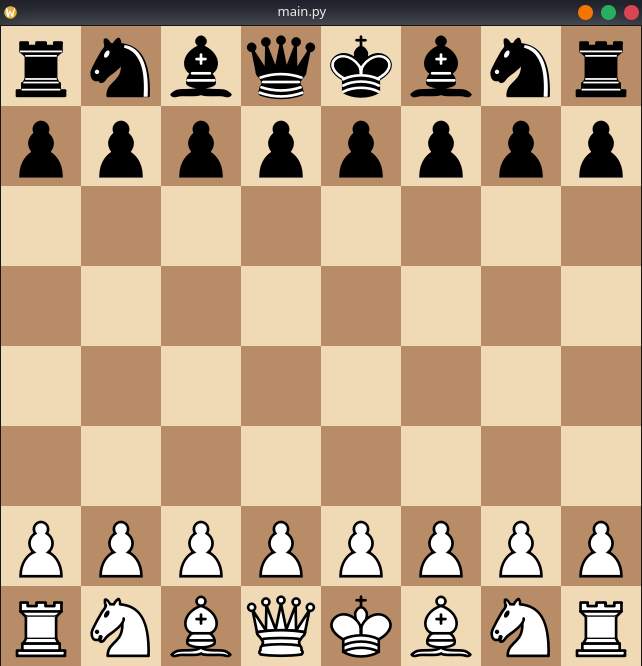
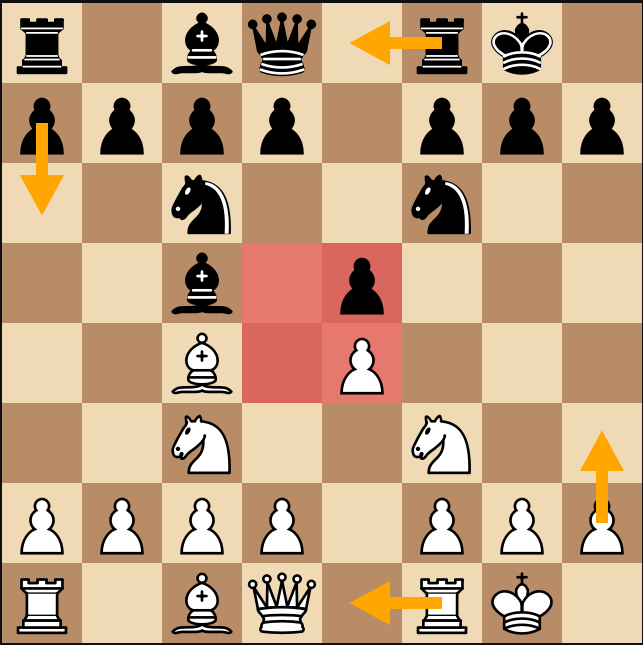
Update preview

diff --git a/main.py b/main.py
@@ -5,7 +5,7 @@ from widgets.chessboard import ChessBoard
 app = QApplication()
 
 board = ChessBoard()
-board.setFen("8/P7/8/8/7k/8/8/4K3 w - - 0 1")
+#board.setFen("8/P7/8/8/7k/8/8/4K3 w - - 0 1")
 board.show()
 
 app.exec()